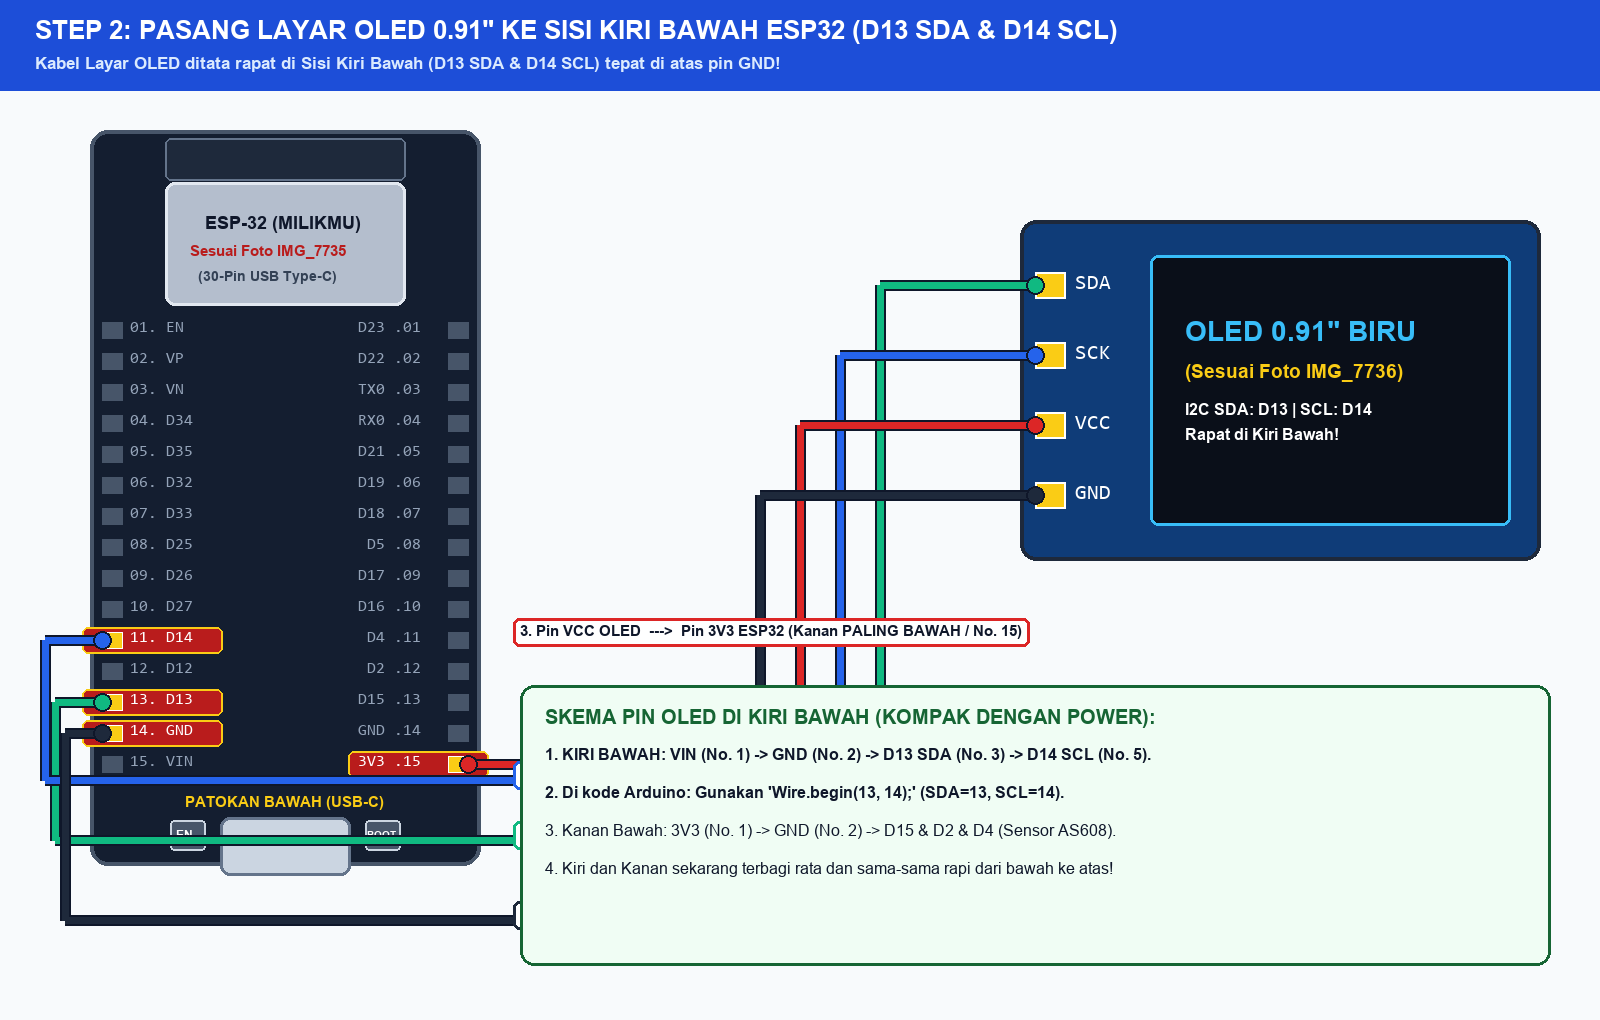
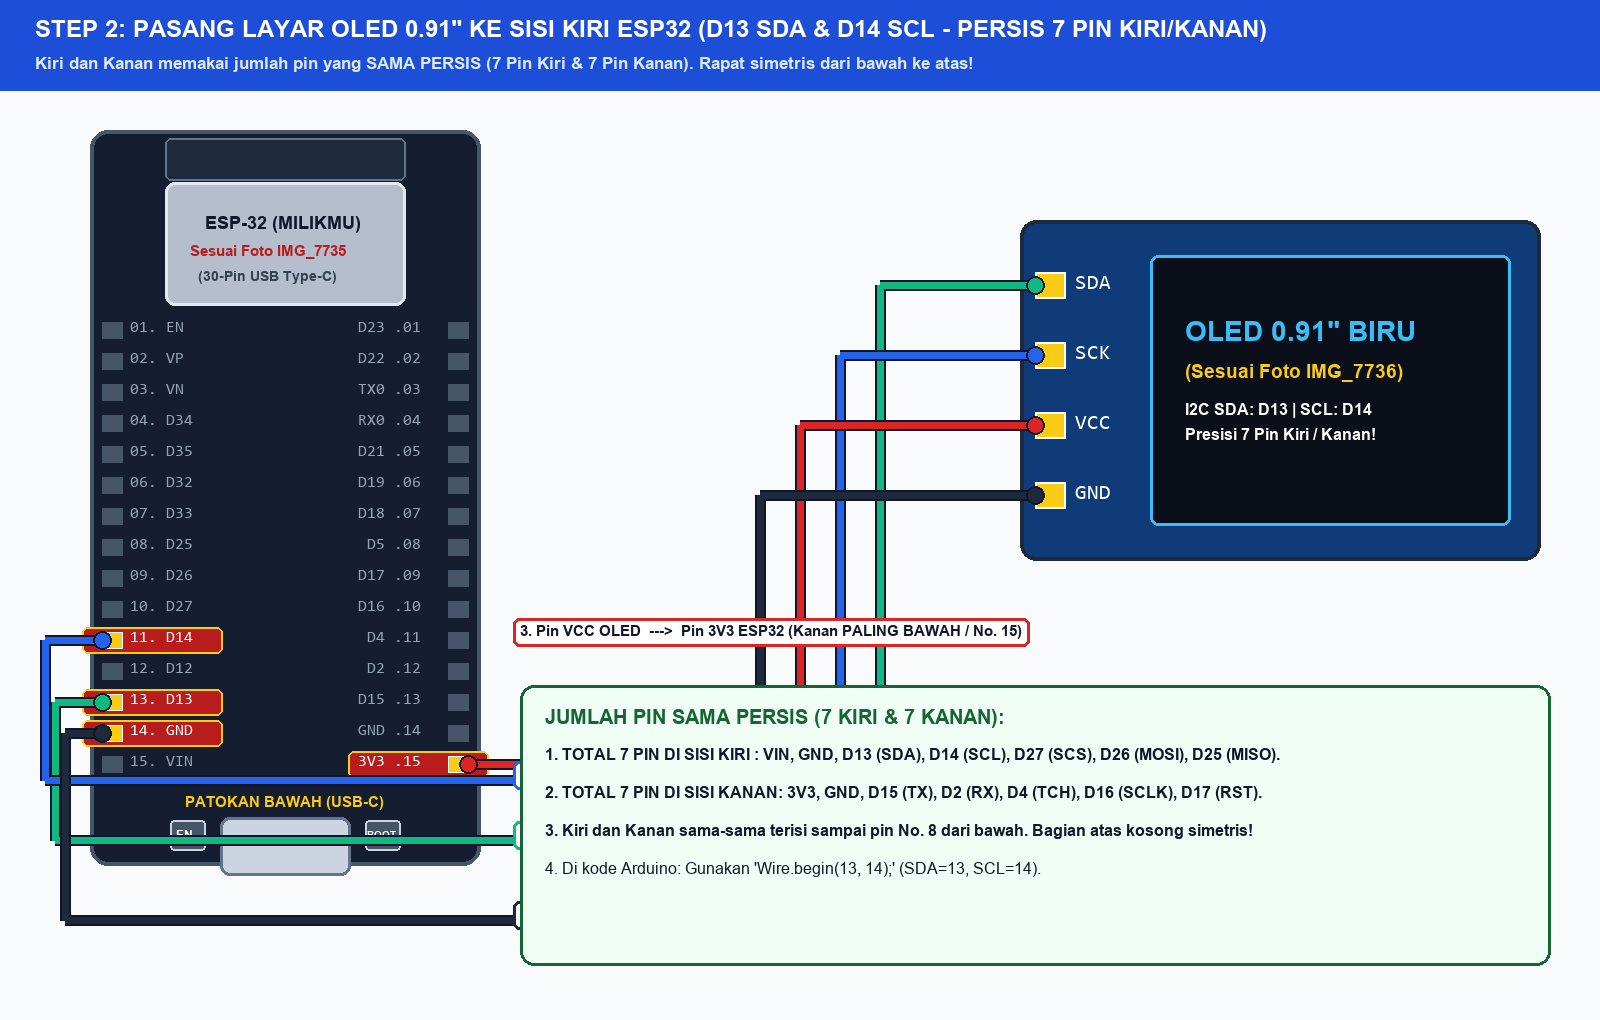
refactor: seimbangkan pinout persis 7 pin kiri vs 7 pin kanan dari bawah ke atas

Changed region(s): [[0.0312, 0.0, 0.7812, 0.0912], [0.3438, 0.699, 0.8125, 0.8814], [0.75, 0.3951, 0.8438, 0.4559]]

diff --git a/render_wiring_steps.py b/render_wiring_steps.py
@@ -267,8 +267,8 @@ def make_step2():
     lbls = []
 
     d.rectangle([0, 0, W, 90], fill=(29, 78, 216))
-    d.text((35, 15), "STEP 2: PASANG LAYAR OLED 0.91\" KE SISI KIRI BAWAH ESP32 (D13 SDA & D14 SCL)", fill=(255, 255, 255), font=get_font(26, bold=True))
-    d.text((35, 53), "Kabel Layar OLED ditata rapat di Sisi Kiri Bawah (D13 SDA & D14 SCL) tepat di atas pin GND!", fill=(219, 234, 254), font=get_font(17, bold=True))
+    d.text((35, 15), "STEP 2: PASANG LAYAR OLED 0.91\" KE SISI KIRI ESP32 (D13 SDA & D14 SCL - PERSIS 7 PIN KIRI/KANAN)", fill=(255, 255, 255), font=get_font(24, bold=True))
+    d.text((35, 53), "Kiri dan Kanan memakai jumlah pin yang SAMA PERSIS (7 Pin Kiri & 7 Pin Kanan). Rapat simetris dari bawah ke atas!", fill=(219, 234, 254), font=get_font(17, bold=True))
 
     esp_coords = draw_esp32(d, 90, 130, active_left=["D14", "D13", "GND_L"], active_right=["3V3"])
 
@@ -279,7 +279,7 @@ def make_step2():
     d.text((ox+165, oy+95), "OLED 0.91\" BIRU", fill=(56, 189, 248), font=get_font(28, bold=True))
     d.text((ox+165, oy+140), "(Sesuai Foto IMG_7736)", fill=(250, 204, 21), font=get_font(19, bold=True))
     d.text((ox+165, oy+180), "I2C SDA: D13 | SCL: D14", fill=(255, 255, 255), font=get_font(16, bold=True))
-    d.text((ox+165, oy+205), "Rapat di Kiri Bawah!", fill=(255, 255, 255), font=get_font(16, bold=True))
+    d.text((ox+165, oy+205), "Presisi 7 Pin Kiri / Kanan!", fill=(255, 255, 255), font=get_font(16, bold=True))
 
     oled_pins = [
         ("SDA", oy+65),
@@ -334,15 +334,15 @@ def make_step2():
     flush_labels(d, lbls)
 
     d.rounded_rectangle([520, 685, 1550, 965], radius=14, fill=(240, 253, 244), outline=(22, 101, 52), width=3)
-    d.text((545, 705), "SKEMA PIN OLED DI KIRI BAWAH (KOMPAK DENGAN POWER):", fill=(22, 101, 52), font=get_font(20, bold=True))
+    d.text((545, 705), "JUMLAH PIN SAMA PERSIS (7 KIRI & 7 KANAN):", fill=(22, 101, 52), font=get_font(20, bold=True))
     tips = [
-        "1. KIRI BAWAH: VIN (No. 1) -> GND (No. 2) -> D13 SDA (No. 3) -> D14 SCL (No. 5).",
-        "2. Di kode Arduino: Gunakan 'Wire.begin(13, 14);' (SDA=13, SCL=14).",
-        "3. Kanan Bawah: 3V3 (No. 1) -> GND (No. 2) -> D15 & D2 & D4 (Sensor AS608).",
-        "4. Kiri dan Kanan sekarang terbagi rata dan sama-sama rapi dari bawah ke atas!"
+        "1. TOTAL 7 PIN DI SISI KIRI : VIN, GND, D13 (SDA), D14 (SCL), D27 (SCS), D26 (MOSI), D25 (MISO).",
+        "2. TOTAL 7 PIN DI SISI KANAN: 3V3, GND, D15 (TX), D2 (RX), D4 (TCH), D16 (SCLK), D17 (RST).",
+        "3. Kiri dan Kanan sama-sama terisi sampai pin No. 8 dari bawah. Bagian atas kosong simetris!",
+        "4. Di kode Arduino: Gunakan 'Wire.begin(13, 14);' (SDA=13, SCL=14)."
     ]
     for i, t in enumerate(tips):
-        d.text((545, 745 + i*38), t, fill=(15, 23, 42), font=get_font(16, bold=(i in [0,1])))
+        d.text((545, 745 + i*38), t, fill=(15, 23, 42), font=get_font(16, bold=(i in [0,1,2])))
 
     save_both(img, "step2_wiring_oled.png")
 
@@ -358,7 +358,7 @@ def make_step3():
 
     d.rectangle([0, 0, W, 95], fill=(185, 28, 28))
     d.text((35, 12), "STEP 3: KABEL SENSOR AS608 DI SISI KANAN BAWAH ESP32 (D15 TX, D2 RX, D4 TCH)", fill=(255, 255, 255), font=get_font(26, bold=True))
-    d.text((35, 50), "Sensor Sidik Jari AS608 ditata di SISI KANAN BAWAH rapat naik dari pin 3V3 & GND (Kiri & Kanan Terbagi Rata!)", fill=(254, 240, 138), font=get_font(16, bold=True))
+    d.text((35, 50), "Sensor Sidik Jari AS608 ditata di SISI KANAN BAWAH persis sejajar pin 3V3 & GND (Jumlah Pin Sama Persis 7 vs 7!)", fill=(254, 240, 138), font=get_font(16, bold=True))
 
     esp_coords = draw_esp32(d, 90, 140, active_left=[], active_right=["D4", "D2", "D15", "GND_R", "3V3"])
 
@@ -441,10 +441,10 @@ def make_step3():
     d.rounded_rectangle([510, 680, 1560, 890], radius=14, fill=(240, 253, 244), outline=(22, 101, 52), width=3)
     d.text((530, 695), "URUTAN PIN AS608 DI SISI KANAN BAWAH (SEJAJAR PIN POWER):", fill=(22, 101, 52), font=get_font(19, bold=True))
     notes = [
-        "1. KANAN BAWAH: 3V3 (V+ & VA) -> GND (Kabel Biru) -> D15 (TX Oranye) -> D2 (RX Putih) -> D4 (TCH Hijau).",
-        "2. KIRI BAWAH : VIN (Power XL) -> GND -> D13 (OLED SDA) -> D14 (OLED SCL).",
-        "3. KIRI TENGAH: D25, D26, D27, D33, D32 (Khusus Jalur Ethernet W5500).",
-        "4. Kiri dan Kanan sekarang benar-benar terbagi rata 50:50 mulai dari pin paling bawah!"
+        "1. KANAN BAWAH (AS608): 3V3 -> GND -> D15 (TX Oranye) -> D2 (RX Putih) -> D4 (TCH Hijau).",
+        "2. KANAN ATAS (W5500) : D16 (SCLK) -> D17 (RST) -> selesai (Tepat 7 pin kanan terpakai!).",
+        "3. KIRI BAWAH (Power & OLED): VIN -> GND -> D13 (SDA) -> D14 (SCL).",
+        "4. KIRI ATAS (W5500): D27 (SCS) -> D26 (MOSI) -> D25 (MISO) -> selesai (Tepat 7 pin kiri terpakai!)."
     ]
     for i, n in enumerate(notes):
         d.text((530, 732 + i*34), n, fill=(15, 23, 42), font=get_font(15, bold=(i in [0,1])))

diff --git a/README.md b/README.md
@@ -113,12 +113,12 @@ Proyek ini menggunakan **Opsi 2**: modul Ethernet PHY **LAN8720A (RMII Native)**
   - `IO15` (RX2) <-> `AS608 TX` (Kabel Oranye)
   - `IO2`  (TX2) <-> `AS608 RX` (Kabel Putih)
   - `IO4`  (Input) <-> `AS608 Touch Out` (Kabel Hijau, dengan pull-down 10k ke GND)
-* **Modul Ethernet W5500 (SPI di Sisi Kiri ESP32):**
-  - `IO25` <-> `W5500 SCS`
-  - `IO26` <-> `W5500 MOSI`
-  - `IO27` <-> `W5500 MISO`
-  - `IO33` <-> `W5500 SCLK`
-  - `IO32` <-> `W5500 RST`
+* **Modul Ethernet W5500 (SPI Terbagi Simetris - Tepat 7 Pin Kiri & 7 Pin Kanan):**
+  - `IO27` <-> `W5500 SCS` (Kiri No. 6)
+  - `IO26` <-> `W5500 MOSI` (Kiri No. 7)
+  - `IO25` <-> `W5500 MISO` (Kiri No. 8)
+  - `IO16` <-> `W5500 SCLK` (Kanan No. 6)
+  - `IO17` <-> `W5500 RST` (Kanan No. 7)
 * **Buzzer Aktif:**
   - `IO14` <-> Resistor R6 1k <-> Anoda Buzzer (+) diparalel Dioda Flyback D6.
 
@@ -253,15 +253,15 @@ Seluruh kabel sensor sidik jari AS608 ditata di **SISI KANAN BAWAH** langsung se
 > - **Jika menggunakan Active Buzzer 3.3V:** Bisa langsung dihubungkan: Pin `D14` -> Resistor 1k -> Kaki (+) Buzzer, dan Kaki (-) Buzzer ke `GND`. Gelang perak dioda flyback menghadap ke kaki (+).
 ![Step 4 Wiring Buzzer](step4_wiring_buzzer.png)
 
-#### Step 5: Pasang Modul Ethernet W5500 Biru ke Sisi Kiri ESP32
-Kabel SPI modul W5500 masuk ke sisi kiri ESP32:
-- `3.3V` -> Pin **`3V3`** ESP32
-- `GND`  -> Pin **`GND`** ESP32
-- `SCS`  -> Pin **`D25`** ESP32
-- `MOSI` -> Pin **`D26`** ESP32
-- `MISO` -> Pin **`D27`** ESP32
-- `SCLK` -> Pin **`D33`** ESP32
-- `RST`  -> Pin **`D32`** ESP32
+#### Step 5: Pasang Modul Ethernet W5500 Biru (Simetris Sempurna 7 vs 7 Pin)
+Kabel SPI modul W5500 ditata melengkapi sisi kiri dan kanan sehingga jumlah pin terpakai sama persis (7 di kiri, 7 di kanan):
+- `3.3V` -> Pin **`3V3`** (Kanan No. 1)
+- `GND`  -> Pin **`GND`** (Kanan No. 2)
+- `RST`  -> Pin **`D17`** (Kanan No. 7 dari Bawah)
+- `SCLK` -> Pin **`D16`** (Kanan No. 6 dari Bawah)
+- `MISO` -> Pin **`D25`** (Kiri No. 8 dari Bawah)
+- `MOSI` -> Pin **`D26`** (Kiri No. 7 dari Bawah)
+- `SCS`  -> Pin **`D27`** (Kiri No. 6 dari Bawah)
 *(Pin 5V dan INT dikosongkan/tidak dipakai).*
 ![Step 5 Wiring W5500](step5_wiring_w5500.png)
 
@@ -320,7 +320,7 @@ void setup() {
   Wire.begin(13, 14); // SDA=IO13, SCL=IO14 (OLED Kiri Bawah)
   display.begin(SSD1306_SWITCHCAPVCC, 0x3C);
   mySerial.begin(57600, SERIAL_8N1, 15, 2); // RX=IO15, TX=IO2 (Sensor Kanan Bawah)
-  SPI.begin(33, 27, 26, 25); // SCLK=33, MISO=27, MOSI=26, SS/SCS=25 (Ethernet W5500)
+  SPI.begin(16, 25, 26, 27); // SCLK=16, MISO=25, MOSI=26, SS/SCS=27 (Simetris 7 vs 7 Pin)
   
   WiFi.onEvent(WiFiEvent);
   ETH.begin(ETH_TYPE, ETH_ADDR, ETH_MDC_PIN, ETH_MDIO_PIN, ETH_POWER_PIN, ETH_CLK_MODE);
